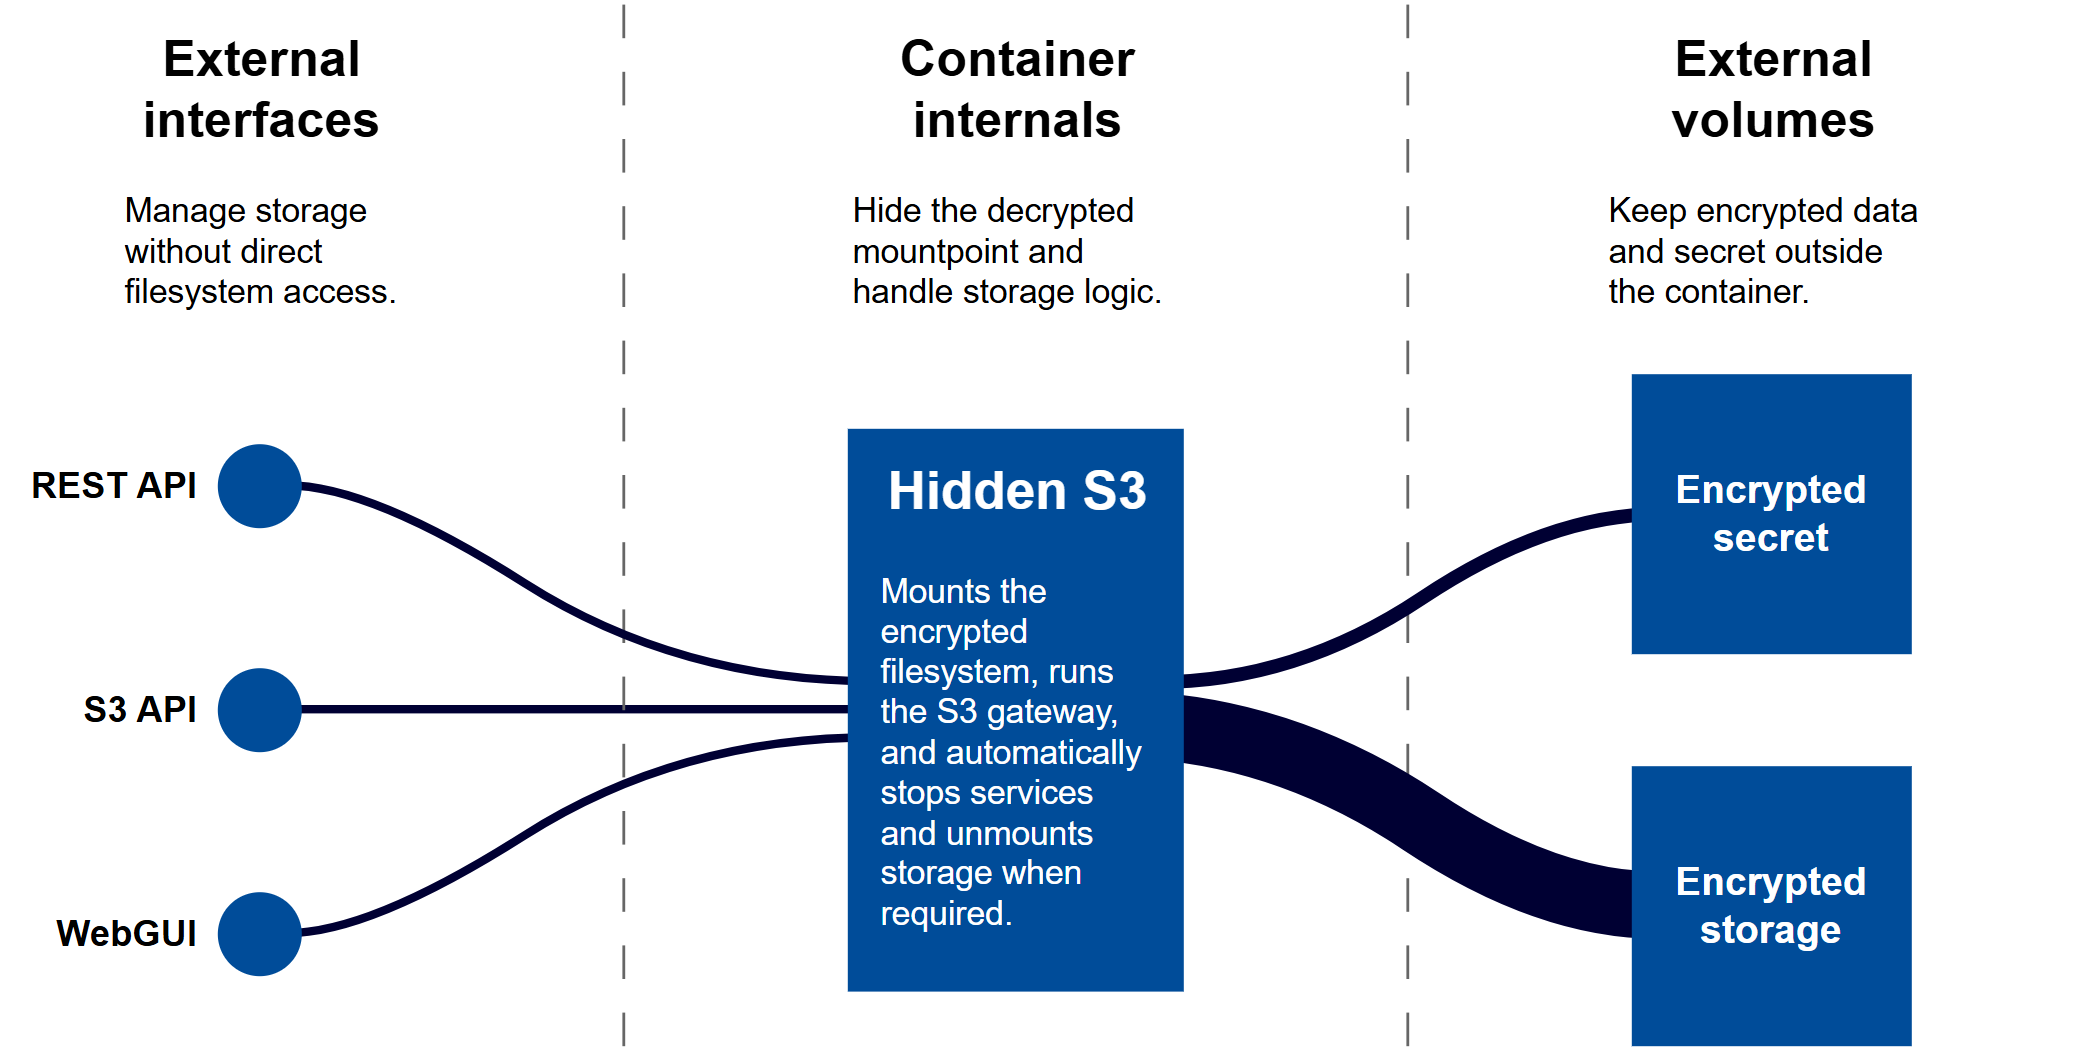
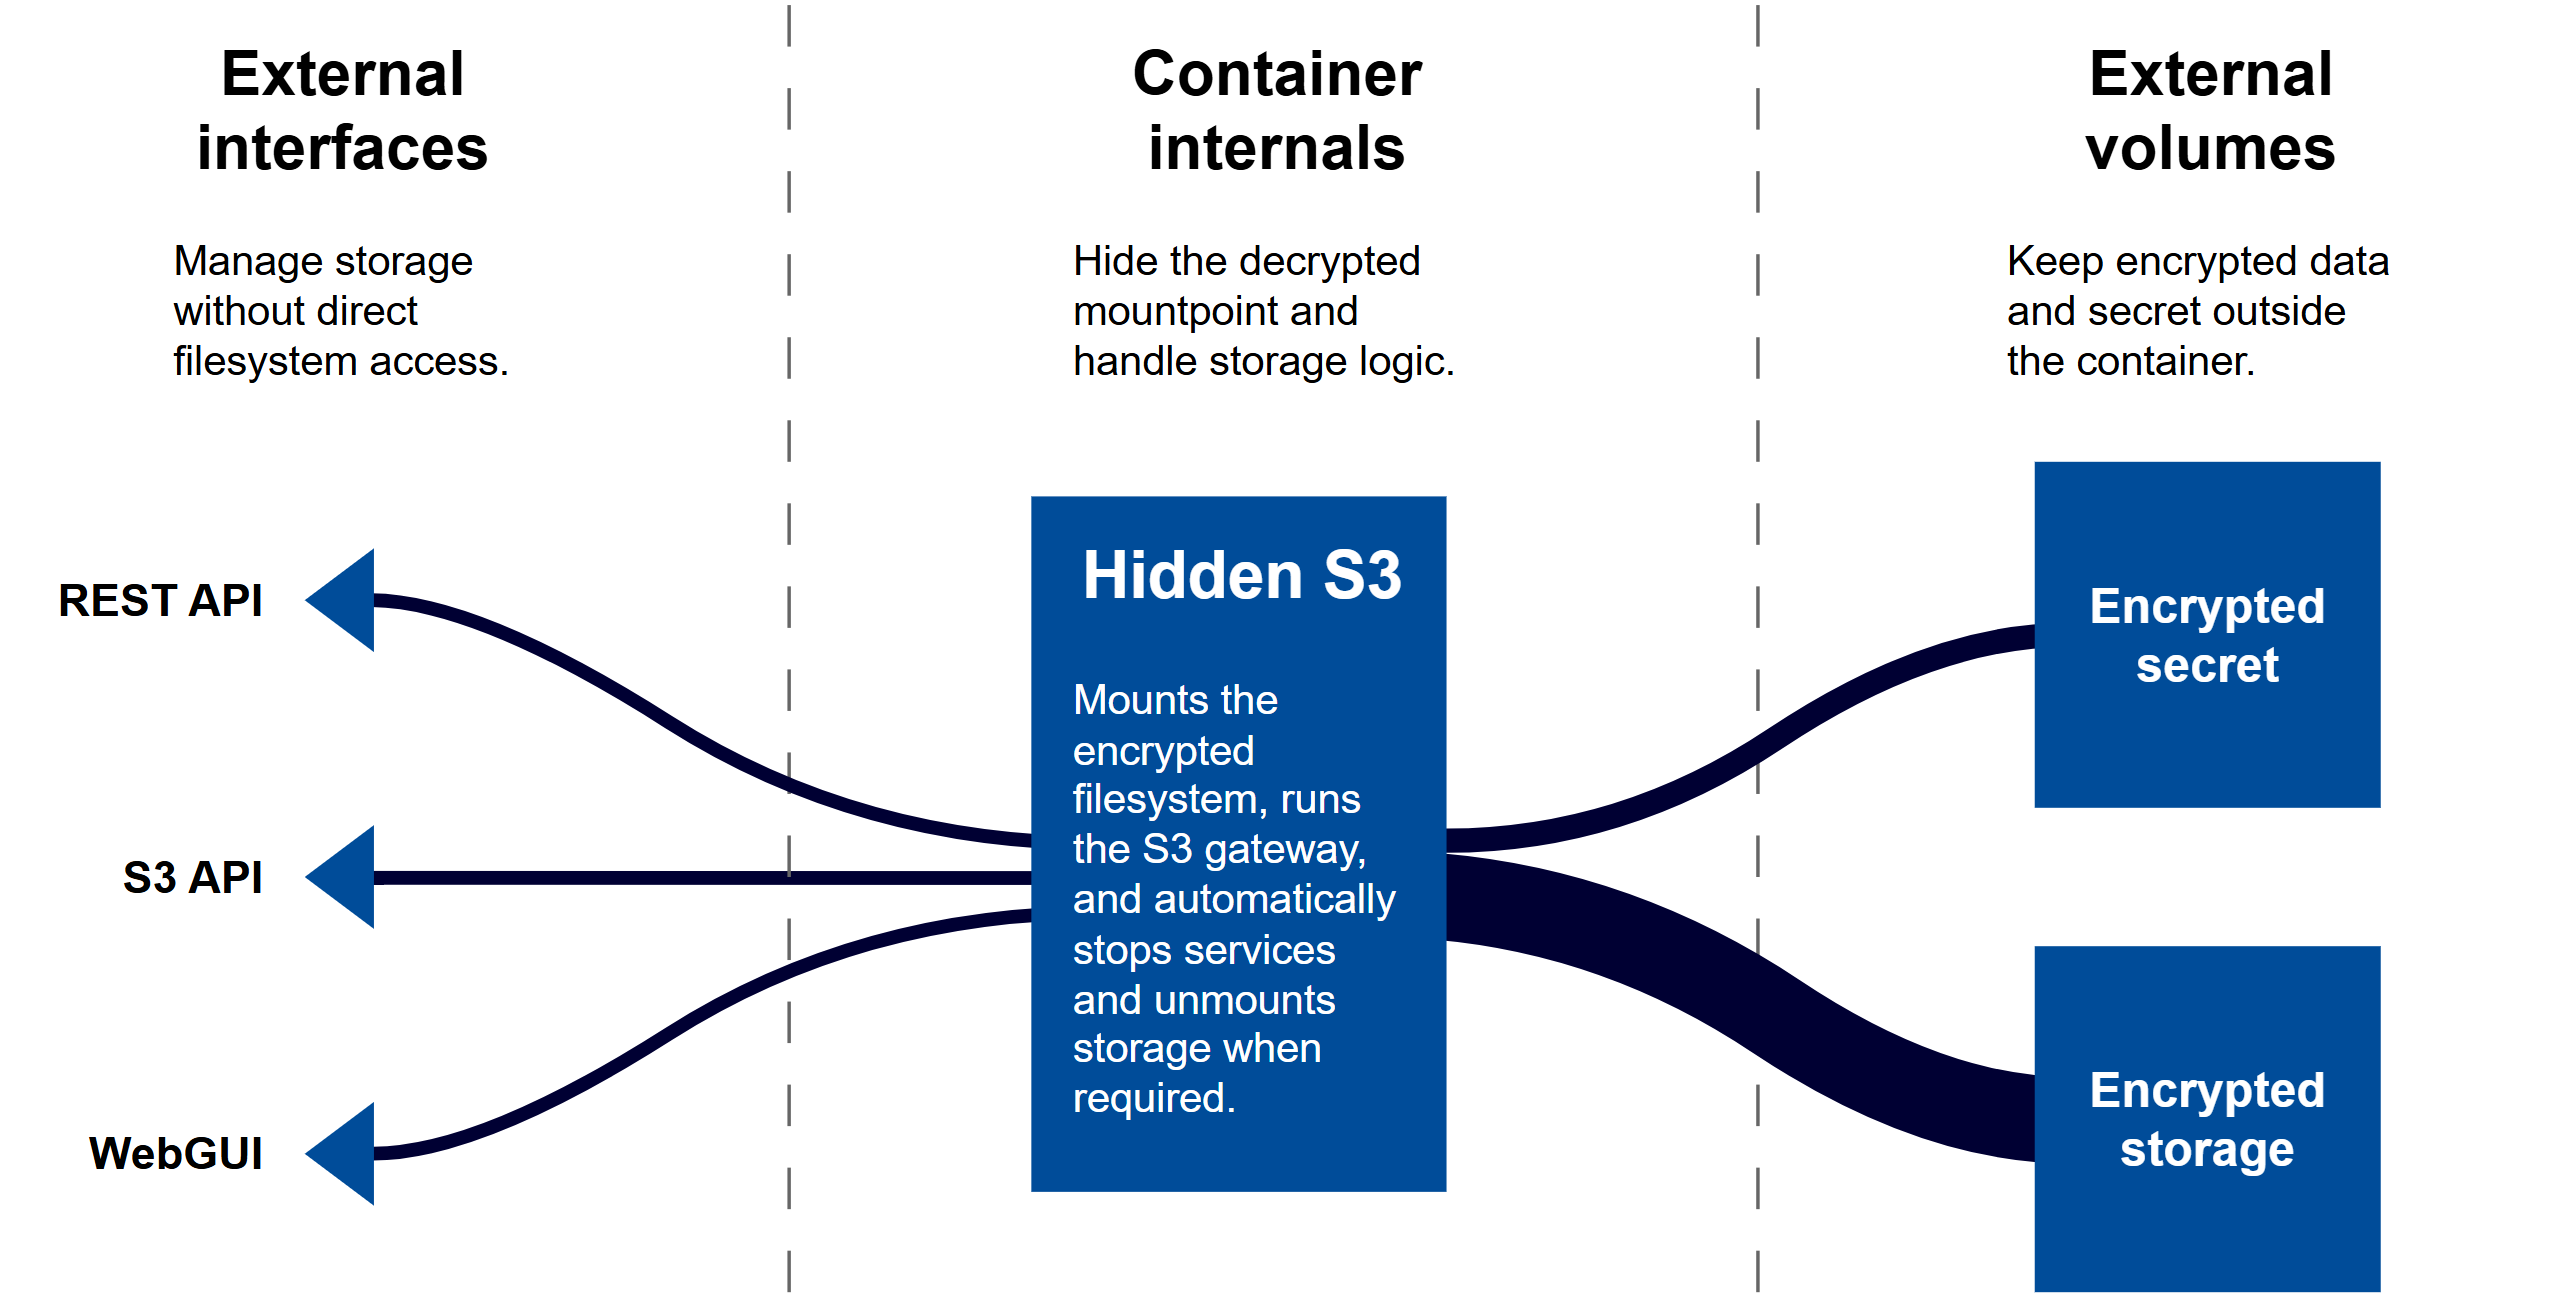
Updated docs

diff --git a/docs/index.html b/docs/index.html
@@ -28,34 +28,26 @@
       </div>
     </div>
 
-    <div class="d-flex justify-content-center mb-3">
-      <div class="text-center" style="max-width: 38em;">
-        The project is distributed as a Docker container and can be
-        deployed in any compatible environment. It is freely available
-        under the Apache 2.0 license.
-      </div>
-    </div>
-
-    <div class="text-center mb-12">
-      <div class="d-inline-block mx-3 align-top" style="max-width: 260px;">
-        <a href="https://github.com/artabramov/hidden" target="_blank" class="btn btn-lg btn-secondary w-100">
-          GitHub
-        </a>
-        <div class="small text-muted mt-2">
-          Explore the source code, read the docs, and follow project
-          development.
-        </div>
-      </div>
-      
-      <div class="d-inline-block mx-3 align-top" style="max-width: 260px;">
+    <div class="text-center mb-2">
+      <div class="d-inline-block mx-3 align-top" style="max-width: 250px;">
         <a href="https://hub.docker.com/repository/docker/artabramov/hidden/general" target="_blank" class="btn btn-lg btn-primary w-100">
           Docker Hub <i class="bi bi-arrow-right"></i>
         </a>
         <div class="small text-muted mt-2">
-          Pull the ready-to-use Docker image and deploy it on your own
-          infrastructure.
+          Get the ready-to-use Docker image,
+          or explore the source code on
+          <a href="https://github.com/artabramov/hidden" class="text-decoration-none">
+            GitHub
+          </a>.
         </div>
       </div>
+    </div>
+
+    <div class="text-center mb-12">
+      <img
+        src="https://img.shields.io/docker/pulls/artabramov/hidden?color=2f81f7"
+        alt="Docker Pulls"
+      >
     </div>
 
     <div class="text-center mb-2">
@@ -72,7 +64,7 @@
     </div>
 
     <div class="d-flex justify-content-center mb-12">
-      <div style="max-width: 28em;">
+      <div style="max-width: 32em;">
         <div class="mb-3">
           The fundamental principle of the app is to protect data at rest.
         </div>
@@ -86,6 +78,62 @@
           contents cannot be recovered without the secret and master
           password</b>.
       </div>
+      </div>
+    </div>
+
+    <div class="bg-dark text-light pt-5 pb-3 mb-12">
+      <div class="container">
+        <div class="row justify-content-center">
+
+          <div class="col-12 col-sm-6 col-md-2 mb-5">
+            <div class="fs-4 fw-bold lh-sm mb-2">
+              Private<br>
+              by design
+            </div>
+            <div>
+              Your data stays on infrastructure you control, without
+              relying on external cloud providers or sharing storage
+              with third parties.
+            </div>
+          </div>
+
+          <div class="col-12 col-sm-6 col-md-2 mb-5">
+            <div class="fs-4 fw-bold lh-sm mb-2">
+              Encrypted<br>
+              by default
+            </div>
+            <div>
+              All files and filenames are transparently encrypted,
+              protecting your data against unauthorized access to
+              the underlying storage.
+            </div>
+          </div>
+
+          <div class="col-12 col-sm-6 col-md-2 mb-5">
+            <div class="fs-4 fw-bold lh-sm mb-2">
+              Lock<br>
+              on danger
+            </div>
+            <div>
+              The app automatically stops storage access and unmounts
+              the decrypted filesystem when the secret becomes
+              unavailable or the container restarts.
+            </div>
+          </div>
+
+          <div class="col-12 col-sm-6 col-md-2 mb-5">
+            <div class="fs-4 fw-bold lh-sm mb-2">
+              Unlock<br>
+              when safe
+            </div>
+            <div>
+              Once the secret is available again, you can remount the
+              encrypted storage and restore access by entering your
+              master password.
+            </div>
+          </div>
+
+        </div>
       </div>
     </div>
 
@@ -159,6 +207,43 @@
             The storage supports manual unmounting and automatically
             unmounts if the secret becomes unavailable or the app
             restarts.
+          </div>
+        </div>
+      </div>
+    </div>
+
+    <div class="text-center mb-2">
+      <div class="display-5">
+        No background transmissions
+      </div>
+    </div>
+    
+    <div class="d-flex justify-content-center mb-5">
+      <div class="fs-4 text-center" style="max-width: 32em;">
+        The app keeps your data on your trusted infrastructure, without AI integrations, telemetry, or unexpected outbound communication.
+      </div>
+    </div>
+
+    <div class="container mb-12">
+      <div class="row justify-content-center">
+        <div class="col-12 col-sm-6 col-md-3 text-start mb-5 mt-3">
+          <i class="bi bi-eye-slash fs-1"></i>
+          <div class="fs-4 fw-bold lh-sm mb-2">
+            No AI<br>
+            access
+          </div>
+          <div>
+            There are no AI integrations or connections to related platforms. Your files are never shared with remote AI services for analysis or processing.
+          </div>
+        </div>
+        <div class="col-12 col-sm-6 col-md-3 text-start mb-5 mt-3">
+          <i class="bi bi-cloud-slash fs-1"></i>
+          <div class="fs-4 fw-bold lh-sm mb-2">
+            No silent<br>
+            reporting
+          </div>
+          <div>
+            No telemetry, usage statistics, or diagnostics are shared with the project maintainers. The app does not silently transmit any operational information.
           </div>
         </div>
       </div>

diff --git a/README.md b/README.md
@@ -40,14 +40,16 @@ If you like it, star it ⭐ — it helps discoverability. Thank you!
 
 ## Quick start
 
-Mount remote storage or removable media at `/mnt/hidden/secrets`, then
-build and run the container:
+Mount remote storage or removable media at `/mnt/hidden/secrets` to
+store the application secrets, then build and run the container:
 
 ```sh
 make install
 ```
 
-Or, use a local directory in a trusted environment:
+Or, use force mode in a trusted environment (the `/mnt/hidden/secrets`
+path will be created automatically as a local directory on the host
+filesystem):
 
 ```sh
 make install FORCE=1
